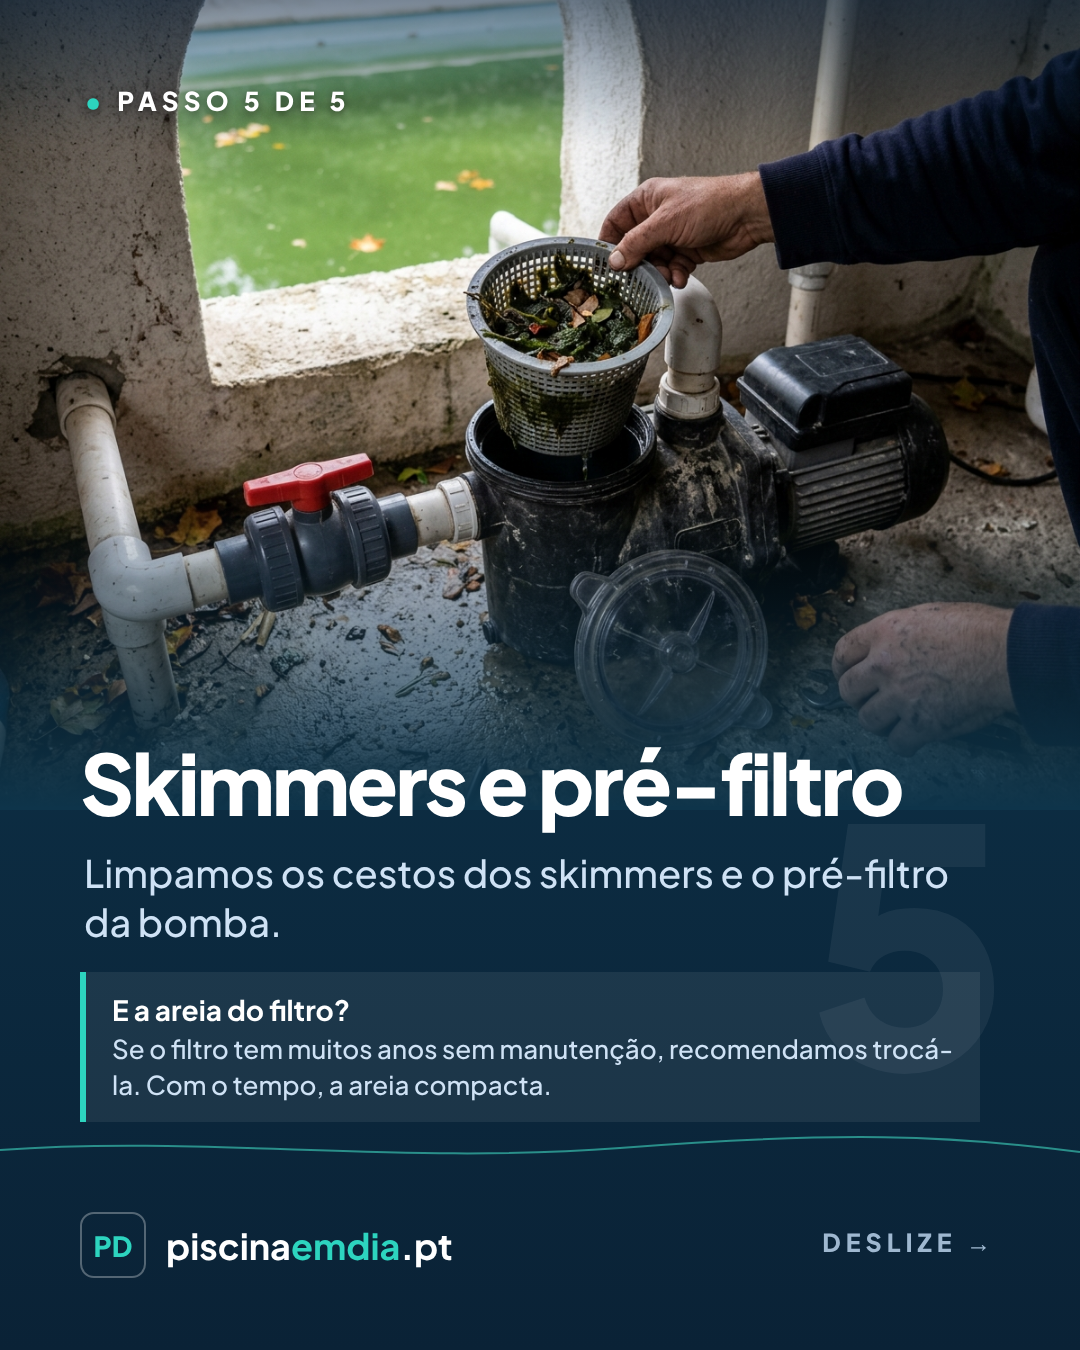
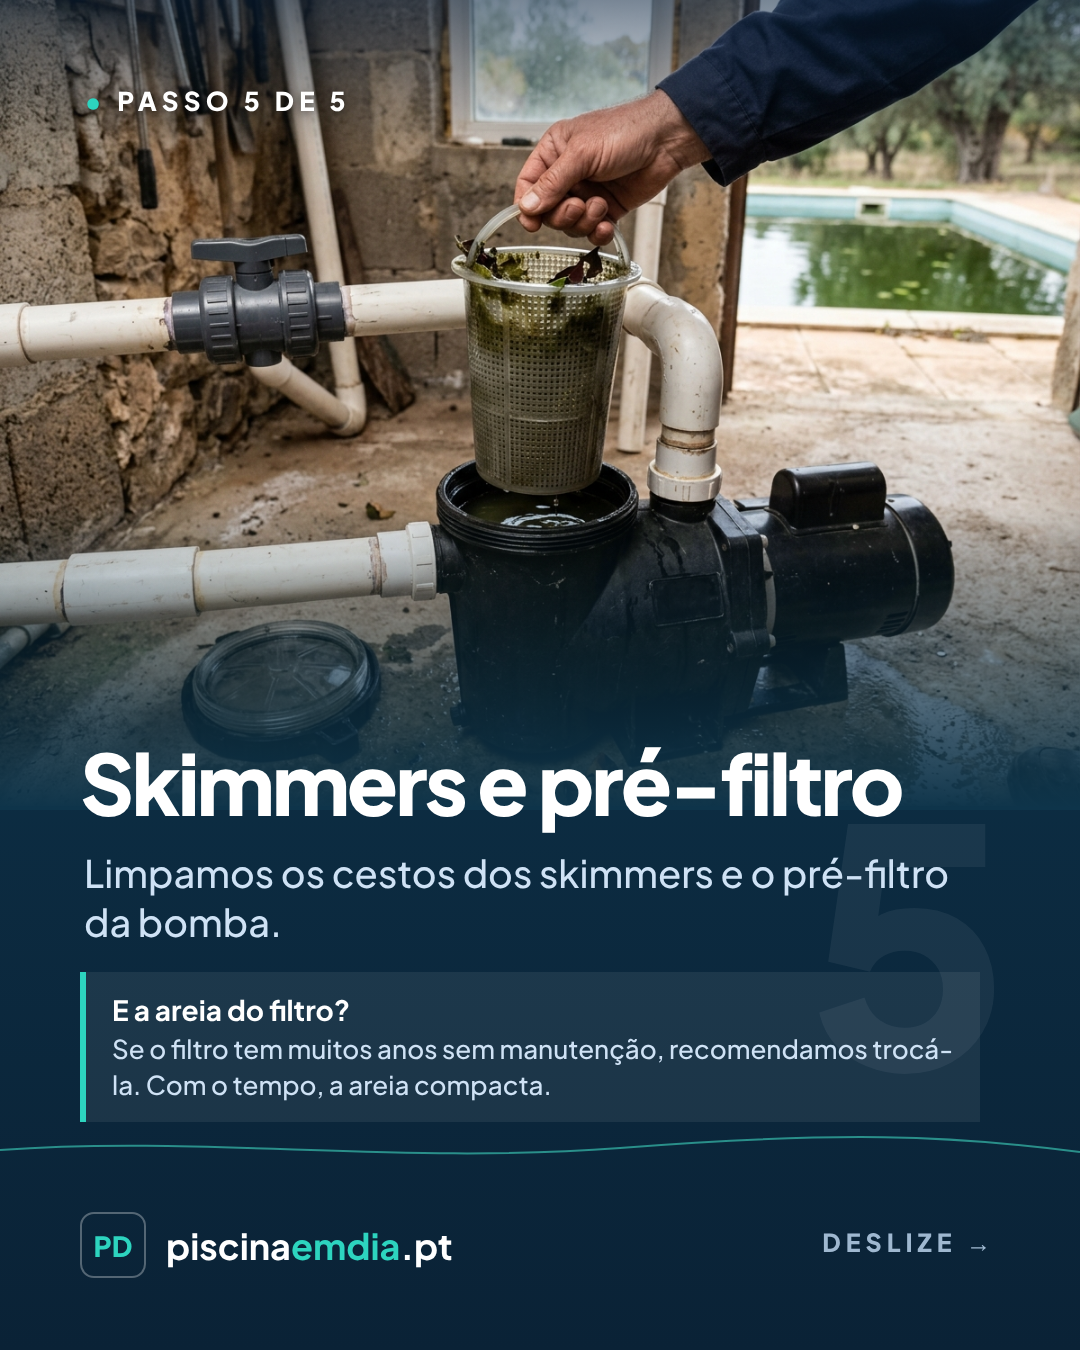
Use a real pump pre-filter basket in green pool carousel
Claude-Session: https://claude.ai/code/session_015APGbDmTNWJmiYTMG5yM5V

diff --git a/piscina-em-dia/.agents/product-marketing.md b/piscina-em-dia/.agents/product-marketing.md
@@ -147,7 +147,7 @@ TO CONFIRM
   - Pool accessories and equipment must look like real, existing products (skimmers, nets, poles, brushes, test kits, covers, pumps, filters). No made-up or distorted gear; check every image and discard any with invented accessories.
   - Equipment the owner uses on visits (owner, 2026-10-30): bottom leaf net (camaroeiro de fundo), brush, manual wheeled vacuum head on telescopic pole, test kits with drops and strips (incl. OTO/Phenol Red), chlorine tablets in a floating dispenser.
   - Skimmers (liner or concrete pools): a rectangular mouth opening in the pool side wall at water level; behind it, only a round or square lid flush in the paving. Never draw a skimmer as a box on the coping or a floating object.
-  - Owner corrections (2026-10-30): the manual vacuum hose plugs into a wall suction fitting (tomada de aspiração), never into the skimmer; when vacuuming, show fine brown-black dust on the floor (not leaves). Skimmers usually come in pairs, side by side. The pool brush is only for floor and walls; the waterline is cleaned with a white melamine sponge (esponja mágica). Machine rooms have PVC ball valves (válvulas de esfera) on the pipes. Pump control panels are proper ones: enclosure with RCD, breaker, contactor, thermal relay, timer and manual/0/auto selector. Water testing uses both the drop kit (OTO + Phenol Red comparator) and 4-in-1 test strips (free chlorine, pH, alkalinity, stabilizer).
+  - Owner corrections (2026-10-30): the manual vacuum hose plugs into a wall suction fitting (tomada de aspiração), never into the skimmer; when vacuuming, show fine brown-black dust on the floor (not leaves). Skimmers usually come in pairs, side by side. The pool brush is only for floor and walls; the waterline is cleaned with a white melamine sponge (esponja mágica). Machine rooms have PVC ball valves (válvulas de esfera) on the pipes. The pump pre-filter basket is a tall cylindrical basket with a handle inside the pump pot (not a conical skimmer basket). Pump control panels are proper ones: enclosure with RCD, breaker, contactor, thermal relay, timer and manual/0/auto selector. Water testing uses both the drop kit (OTO + Phenol Red comparator) and 4-in-1 test strips (free chlorine, pH, alkalinity, stabilizer).
   - Owner rule (2026-10-30): whenever an image shows water testing, ALWAYS pass all three kit reference photos (drop kit + both strip photos) so the kits look the same in every image. Reference index: referencias/README.md.
   - More reference photos: referencias/kit-gotas-oto-phenol.jpg, referencias/tiras-4em1-frente.jpg, referencias/tiras-4em1-verso.jpg (product photos; for image generation only, never publish; generated images must not show brand names).
   - Winter covers: depend on the client; when there is one, it is usually a tarp (lona) held with elastic cords.
